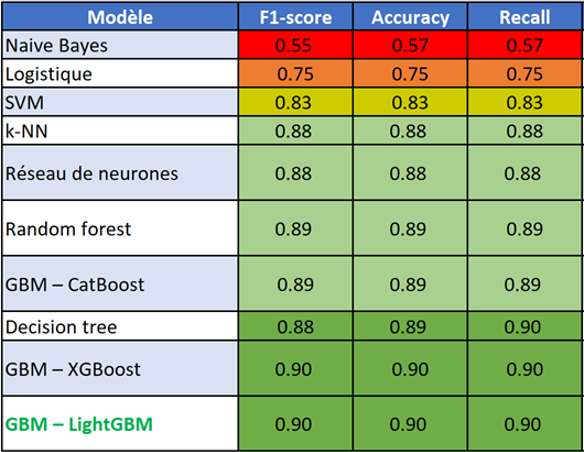
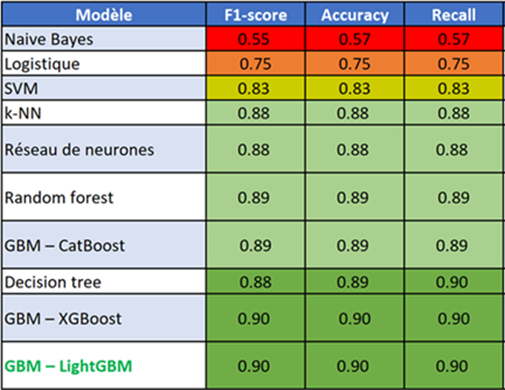
cosm

diff --git a/pages/15_lessonsLearned.py b/pages/15_lessonsLearned.py
@@ -28,8 +28,8 @@ st.set_page_config(page_title="Leçons apprises avec projet CO₂", layout="wide
 # Section: Données & Préparation
 st.markdown("### 🔍 Données & Exploration: bien comprendre nos données")
 st.markdown("""
-- Choix de la base : Nous avons favorisé la richesse plutôt que la jeunesse des données
-- Visualisation des corrélations, des distributions marquées par le métier
+- Choix de la base : Bien examiner la richesse des données pour mieux entraîner les modèles
+- Visualisation des corrélations, des distributions propres au métier
             """)
 #st.image("images/data_cleaning.jpg", caption="Traitement des données", use_container_width =True)
 
@@ -51,42 +51,17 @@ st.markdown("""
 """)
 #st.image("images/results_regression01.png", caption="Comparaison des modèles de régression", use_container_width =True)
 #st.image("images/classif_results_small.png", caption="Modèles de classification", use_container_width =True)
-#col1, col2 = st.columns(2)
-
-#with col1:
-#    st.image("images/results_regression_small.png", caption="Modèles de régression", use_container_width=True)
-
-#with col2:
-#    st.image("images/classif_results_small.png", caption="Modèles de classification", use_container_width=True)
-
-#common height (f.ex. 400px)
-image_style = """
-<style>
-.img-container img {
-    height: 400px;
-    object-fit: cover;
-}
-</style>
-"""
-
-st.markdown(image_style, unsafe_allow_html=True)
-
 col1, col2 = st.columns(2)
 
 with col1:
-    st.markdown('<div class="img-container">', unsafe_allow_html=True)
     st.image("images/results_regression_small.png", caption="Modèles de régression", use_container_width=True)
-    st.markdown('</div>', unsafe_allow_html=True)
 
 with col2:
-    st.markdown('<div class="img-container">', unsafe_allow_html=True)
     st.image("images/classif_results_small.png", caption="Modèles de classification", use_container_width=True)
-    st.markdown('</div>', unsafe_allow_html=True)
-
 
 
 # Section: Interprétabilité & Insights
-st.markdown("### 🧠 Interprétabilité & Recommandations métier")
+st.markdown("### 💡Interprétabilité & Recommandations métier")
 st.markdown("""
 - Recommandations techniques :
   - Essence/Diesel : contenir la masse et la cylindrée pour réduire les émissions
@@ -97,4 +72,4 @@ st.image("images/classif_shap.png", caption="Interprétabilité SHAP", use_conta
 
 # Footer
 st.markdown("---")
-st.markdown("📘 Fait par Polina Quignon, Vincent Guillemot, Denis Froment — avec la supervicion d'Eliott Douieb.")
+st.markdown("📘 Fait par Polina Quignon, Vincent Guillemot, Denis Froment — avec la supervision d'Eliott Douieb.")
